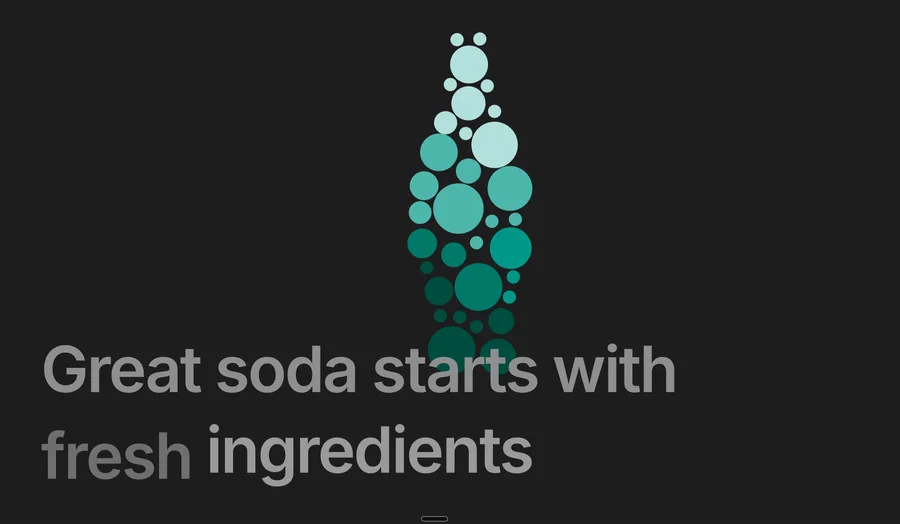
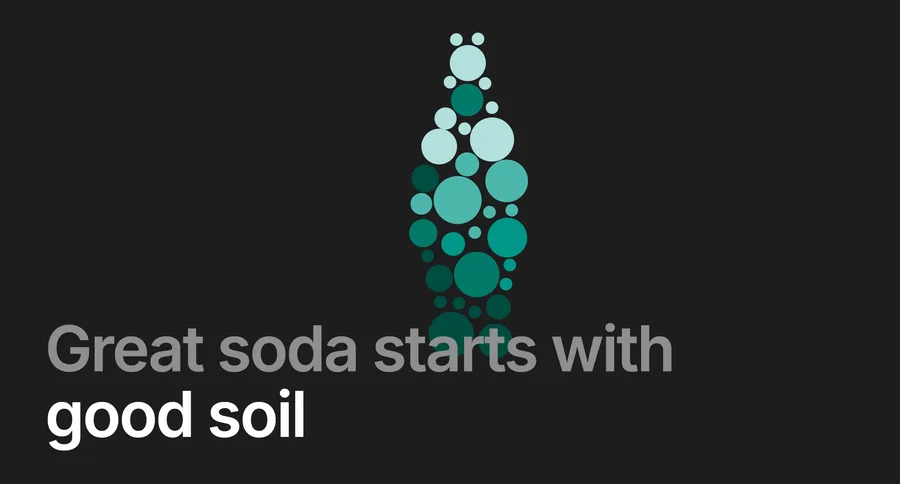
Replace the Wellspring Group preview image
Claude-Session: https://claude.ai/code/session_01UZS83pgd8qT9w7QUw6zbHW

Changed region(s): [[0.0311, 0.062, 0.7778, 0.7748], [0.0311, 0.8058, 0.5911, 0.9298], [0.4667, 0.9607, 0.4978, 1.0]]

diff --git a/js/data.js b/js/data.js
@@ -272,8 +272,8 @@ export const FUN = [
     cta: "Visit the Site",
     image: `${IMG}/previews/wellspring-group.webp`,
     thumb: `${IMG}/previews/wellspring-group-sm.webp`,
-    aspect: 2684 / 1564,
-    alt: "Wellspring Group’s landing page: teal bubbles gathered into a bottle silhouette beside the line “good soda starts with good ingredients”",
+    aspect: 2812 / 1512,
+    alt: "Wellspring Group’s landing page: teal bubbles gathered into a bottle silhouette above the line “Great soda starts with good soil”",
     focus: [0.52, 0.5],
     zoom: 1,
     sections: [
